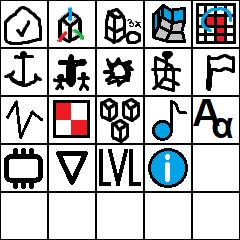
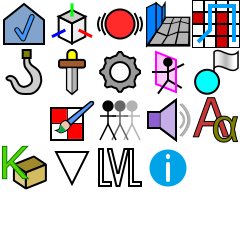
UI last touches, Detector render fix, version bump to v0.3

diff --git a/EditorInterface.cpp b/EditorInterface.cpp
@@ -704,6 +704,24 @@ namespace {
 	void IGStringInput(const char* label, std::string& str) {
 		ImGui::InputText(label, str.data(), str.capacity() + 1, ImGuiInputTextFlags_CallbackResize, IGStdStringInputCallback, &str);
 	}
+
+	void IGLink(const char* text, const wchar_t* url, Window* window = nullptr) {
+		ImVec2 pos = ImGui::GetCursorScreenPos();
+		ImVec2 box = ImGui::CalcTextSize(text);
+		uint32_t color = 0xFFFA870F;
+		if (ImGui::InvisibleButton(text, box)) {
+			ShellExecuteW(window ? (HWND)window->getNativeWindow() : nullptr, NULL, url, NULL, NULL, SW_SHOWNORMAL);
+		}
+		if (ImGui::IsItemHovered()) {
+			color = 0xFFFFC74F;
+			ImGui::SetTooltip("%S", url);
+		}
+
+		float ly = pos.y + box.y;
+		ImDrawList* drawList = ImGui::GetWindowDrawList();
+		drawList->AddText(pos, color, text);
+		drawList->AddLine(ImVec2(pos.x, ly), ImVec2(pos.x + box.x, ly), color);
+	};
 }
 
 // Manages the Event names JSON
@@ -1248,6 +1266,21 @@ void EditorInterface::iter()
 	camera.position = newPos;
 	camera.orientation = newOri;
 
+	// Menu bar
+
+	static bool tbIconsLoaded = false;
+	static texture_t tbTexture = nullptr;
+	static texture_t helpTexture = nullptr;
+	if (!tbIconsLoaded) {
+		auto [ptr, siz] = GetResourceContent("ToolbarIcons.png");
+		RwImage img = RwImage::loadFromMemory(ptr, siz);
+		tbTexture = gfx->createTexture(img);
+		std::tie(ptr, siz) = GetResourceContent("HelpMarker.png");
+		img = RwImage::loadFromMemory(ptr, siz);
+		helpTexture = gfx->createTexture(img);
+		tbIconsLoaded = true;
+	}
+
 	ImGui::BeginMainMenuBar();
 /*	if (ImGui::BeginMenu("Window")) {
 		ImGui::MenuItem("Main", nullptr, &wndShowMain);
@@ -1300,18 +1333,15 @@ void EditorInterface::iter()
 #else
 	ImGui::Text("XXL Editor Development version, by AdrienTD, FPS: %i", lastFps);
 #endif
+	const char* needhelp = "Need help?";
+	ImGui::SameLine(ImGui::GetWindowContentRegionMax().x - 13 - ImGui::CalcTextSize(needhelp).x - ImGui::GetStyle().ItemSpacing.x);
+	ImGui::SetCursorPosY(ImGui::GetCursorPosY() + ImGui::GetStyle().ItemInnerSpacing.y);
+	ImGui::Image(helpTexture, ImVec2(13, 13));
+	ImGui::SetCursorPosY(ImGui::GetCursorPosY() + ImGui::GetStyle().ItemInnerSpacing.y);
+	IGLink(needhelp, L"https://github.com/AdrienTD/XXL-Editor/wiki", g_window);
 	ImGui::EndMainMenuBar();
 
 	// Toolbar
-
-	static bool tbIconsLoaded = false;
-	static texture_t tbTexture = nullptr;
-	if (!tbIconsLoaded) {
-		auto [ptr, siz] = GetResourceContent("ToolbarIcons.png");
-		RwImage img = RwImage::loadFromMemory(ptr, siz);
-		tbTexture = gfx->createTexture(img);
-		tbIconsLoaded = true;
-	}
 
 	static int windowOpenCounter = -1;
 
@@ -1384,11 +1414,11 @@ void EditorInterface::iter()
 		ImGui::PopStyleVar(1);
 		ImGui::PopStyleColor(1);
 		toolbarGroupStart("General");
-		toolbarButton("Main", &wndShowMain, 0, "Select level, manage camera and view");
-		toolbarButton("Scene graph", &wndShowSceneGraph, 1, "View Scene Graph and manipulate Scene Nodes");
-		toolbarButton("Beacons", &wndShowBeacons, 2, "Manage beacons\nUsed for bonuses, crates, respawn points, merchant, ...");
-		toolbarButton("Grounds", &wndShowGrounds, 3, "Manage the ground geometry for the collision\n");
-		toolbarButton("Pathfinding", &wndShowPathfinding, 4, "Manipulate the pathfinding nodes and cells.");
+		toolbarButton("Main", &wndShowMain, 0, "Load and save level, manage the camera and view");
+		toolbarButton("Scene graph", &wndShowSceneGraph, 1, "View the Scene Graph and manipulate the Scene Nodes\n - Add new scene nodes\n - Import/export of rendered geometry");
+		toolbarButton("Beacons", &wndShowBeacons, 2, "Manage beacons\nBeacons are 3D points used to position objects such as:\nbonuses, crates, respawn points, merchant, ...");
+		toolbarButton("Grounds", &wndShowGrounds, 3, "Manage the Grounds in the sectors\nGrounds are 3D collision models that indicate where entities\nsuch as heroes and enemies can stand and walk on.\nThey also include walls that prevent heroes to pass through.");
+		toolbarButton("Pathfinding", &wndShowPathfinding, 4, "Manipulate the pathfinding grids and cells.\nPathfinding is used to guide AI-controlled heroes and enemies through the world\nwhile preventing them to access undesired areas such as walls\nusing some form of A* algorithm.");
 		if (kenv.version <= kenv.KVERSION_XXL1)
 			toolbarButton("Level properties", &wndShowLevel, 17, "Edit the properties of the current level, such as:\n - Set Asterix spawning position\n - Add new sector\n - Sky color\n - ...");
 		toolbarGroupEnd();
@@ -1396,34 +1426,34 @@ void EditorInterface::iter()
 		toolbarGroupStart("Scripting");
 		if (kenv.version <= kenv.KVERSION_XXL1)
 			toolbarButton("Hooks", &wndShowHooks, 5, "Manipulate the hooks\nHooks are attached to Scene Nodes and handle their behaviours\n(similar to adding a Component to a GameObject/Actor in Unity/Unreal)");
-		if (kenv.hasClass<CKGrpSquad>() || kenv.hasClass<CKGrpSquadX2>())
-			toolbarButton("Squads", &wndShowSquads, 6, "Manipulate the squads, the enemies\nSquads are groups of enemies, representated by giant swords");
+		if (kenv.hasClass<CKGrpSquadEnemy>() || kenv.hasClass<CKGrpSquadX2>())
+			toolbarButton("Squads", &wndShowSquads, 6, "Manipulate the squads and its enemies.\nSquads are groups of enemies, represented by giant swords.");
 		//toolbarSeparator();
 		if (kenv.version <= kenv.KVERSION_XXL1)
-			toolbarButton("Events", &wndShowEvents, 7, "Manipulate the scripting events");
+			toolbarButton("Events", &wndShowEvents, 7, "Manipulate the scripting events.");
 		else
-			toolbarButton("Triggers", &wndShowTriggers, 7, "Manipulate the scripting triggers");
-		toolbarButton("Detectors", &wndShowDetectors, 8, "Manipulate the detectors\nwhich are shapes that trigger events when entered.");
+			toolbarButton("Triggers", &wndShowTriggers, 7, "Manipulate the scripting triggers.");
+		toolbarButton("Detectors", &wndShowDetectors, 8, "Manipulate the detectors.\nDetectors are shapes that trigger events when entered.");
 		if (kenv.version <= kenv.KVERSION_XXL1)
-			toolbarButton("Markers", &wndShowMarkers, 9, "Manipulate the markers\nwhich are points in the level that can be used in scripting.");
-		toolbarButton("Lines", &wndShowLines, 10, "Manipulate lines");
+			toolbarButton("Markers", &wndShowMarkers, 9, "Manipulate the markers.\nMarkers are points in the level that can be used in scripting.");
+		toolbarButton("Lines", &wndShowLines, 10, "Manipulate lines used in scripting and mechanisms.");
 		toolbarGroupEnd();
 		//toolbarSeparator();
 		//toolbarButton("Cinematic", &wndShowCinematic, "Manipulate the cutscenes");
 		//toolbarButton("Collision", &wndShowCollision, "Show the collisions registered between bounding shape nodes\n(for debugging purposes)");
 		toolbarSeparator();
 		toolbarGroupStart("Assets");
-		toolbarButton("Textures", &wndShowTextures, 11, "Manage the textures used by the models in this level");
-		toolbarButton("Clones", &wndShowClones, 12, "Show the geometries that are clones,\nreused by multiple nodes (bonuses, enemies, etc.)");
+		toolbarButton("Textures", &wndShowTextures, 11, "Manage the textures used by the models as well as the interface\nin this level and its sectors.");
+		toolbarButton("Clones", &wndShowClones, 12, "Show the geometries that are clones,\nreused by multiple clone nodes (bonuses, enemies, etc.).");
 		if (kenv.hasClass<CKSoundDictionary>())
-			toolbarButton("Sounds", &wndShowSounds, 13, "Manage the sounds");
+			toolbarButton("Sounds", &wndShowSounds, 13, "Manage the sounds used in this level and its sectors.");
 		toolbarGroupEnd();
 		toolbarSeparator();
 		toolbarGroupStart("Misc");
-		toolbarButton("Localization", &wndShowLocale, 14, "Add/Modify language text and fonts");
-		toolbarButton("Objects", &wndShowObjects, 15, "Show a list of all objects in the level and sectors");
+		toolbarButton("Localization", &wndShowLocale, 14, "Add/Modify language text and fonts in the game.");
+		toolbarButton("Objects", &wndShowObjects, 15, "Show a list of all objects (Kal class instances) in the level and sectors.");
 		bool openMisc = false;
-		toolbarButton("Misc", &openMisc, 16, "Access to debugging and incomplete features that are not recommended to be used");
+		toolbarButton("Misc", &openMisc, 16, "Access to debugging and incomplete features that are not recommended to be used.");
 		toolbarButton("Information", &wndShowAbout, 18, "Display information about the editor\nand links to documentation and updates.");
 		if (openMisc)
 			ImGui::OpenPopup("MiscWindowsMenu");
@@ -1750,8 +1780,9 @@ void EditorInterface::render()
 
 	CKGroup *grpEnemy = kenv.hasClass<CKGrpEnemy>() ? kenv.levelObjects.getFirst<CKGrpEnemy>() : nullptr;
 
-	if (grpEnemy) {
+	if (grpEnemy && (showSquadBoxes || showMsgActionBoxes)) {
 		gfx->setTransformMatrix(camera.sceneMatrix);
+		gfx->unbindTexture(0);
 		//for (CKObject *osquad : kenv.levelObjects.getClassType<CKGrpSquadEnemy>().objects) {
 		for (CKGroup* osquad = grpEnemy->childGroup.get(); osquad; osquad = osquad->nextGroup.get()) {
 			if (!osquad->isSubclassOf<CKGrpSquadEnemy>()) continue;
@@ -1905,6 +1936,7 @@ void EditorInterface::render()
 
 	if (showMarkers && kenv.hasClass<CKSrvMarker>()) {
 		if (CKSrvMarker *srvMarker = kenv.levelObjects.getFirst<CKSrvMarker>()) {
+			gfx->unbindTexture(0);
 			gfx->setBlendColor(0xFFFFFF00);
 			for (auto &list : srvMarker->lists) {
 				for (auto &marker : list) {
@@ -1920,6 +1952,7 @@ void EditorInterface::render()
 			if (CKSrvDetector* srvDetector = kenv.levelObjects.getFirst<CKSrvDetector>()) {
 				ProGeometry* progeoSphere = progeocache.getPro(sphereModel->geoList.geometries[0], &protexdict);
 				gfx->setTransformMatrix(camera.sceneMatrix);
+				gfx->unbindTexture(0);
 				gfx->setBlendColor(0xFF00FF00); // green
 				for (auto& aabb : srvDetector->aaBoundingBoxes)
 					drawBox(aabb.highCorner, aabb.lowCorner);
@@ -1961,6 +1994,7 @@ void EditorInterface::render()
 		}
 		if (kenv.hasClass<CKSectorDetector>()) {
 			gfx->setTransformMatrix(camera.sceneMatrix);
+			gfx->unbindTexture(0);
 			int strid = -2;
 			for (CKObject* osector : kenv.levelObjects.getClassType<CKSectorDetector>().objects) {
 				++strid;
@@ -2005,6 +2039,7 @@ void EditorInterface::render()
 	}
 
 	if (showLights && kenv.hasClass<CKGrpLight>()) {
+		gfx->unbindTexture(0);
 		gfx->setBlendColor(0xFF00FFFF); // yellow
 		if (CKGrpLight *grpLight = kenv.levelObjects.getFirst<CKGrpLight>()) {
 			auto &points = grpLight->node->cast<CNode>()->geometry->cast<CKParticleGeometry>()->pgPoints;
@@ -6056,41 +6091,21 @@ void EditorInterface::IGAbout()
 		loaded = true;
 	}
 
-	auto IGLink = [this](const char* text, const wchar_t* url) {
-		ImVec2 pos = ImGui::GetCursorScreenPos();
-		ImVec2 box = ImGui::CalcTextSize(text);
-		uint32_t color = 0xFFFA870F;
-		if (ImGui::InvisibleButton(text, box)) {
-			ShellExecuteW((HWND)g_window->getNativeWindow(), NULL, url, NULL, NULL, SW_SHOWNORMAL);
-		}
-		if (ImGui::IsItemHovered()) {
-			color = 0xFFFFC74F;
-			ImGui::SetTooltip("%S", url);
-		}
-
-		float ly = pos.y + box.y;
-		ImDrawList* drawList = ImGui::GetWindowDrawList();
-		drawList->AddText(pos, color, text);
-		drawList->AddLine(ImVec2(pos.x, ly), ImVec2(pos.x + box.x, ly), color);
-	};
-
 	ImGui::Image(logo, ImVec2(400.0f, 400.0f * (float)logoHeight / (float)logoWidth));
 #ifdef XEC_APPVEYOR
 	static const char* version = "Version " XEC_APPVEYOR;
 #else
 	static const char* version = "Development version";
 #endif
-	ImGui::Text("XXL Editor\n%s\nbuilt on " __DATE__ "\nby AdrienTD", version);
-	ImGui::Text("Thanks to S.P.Q.R");
-	ImGui::Spacing();
-	ImGui::Separator();
-	ImGui::Spacing();
-	ImGui::Text("Wiki page, links, etc.");
-	IGLink("GitHub repo", L"https://github.com/AdrienTD/XXL-Editor");
-	ImGui::TextUnformatted("for source code and stable releases");
-	IGLink("Wiki", L"https://github.com/AdrienTD/XXL-Editor/wiki");
+	ImGui::Text("XXL Editor\n%s\nbuilt on " __DATE__, version);
+	ImGui::Spacing(); ImGui::Separator(); ImGui::Spacing();
+	ImGui::Text("Developed by AdrienTD\nThanks to S.P.Q.R");
+	ImGui::Spacing(); ImGui::Separator(); ImGui::Spacing();
+	IGLink("Wiki", L"https://github.com/AdrienTD/XXL-Editor/wiki", g_window);
 	ImGui::TextUnformatted("for documentation, tutorials, and links to Discord servers");
-	IGLink("AppVeyor", L"https://ci.appveyor.com/project/AdrienTD/xxl-editor");
+	IGLink("GitHub repo", L"https://github.com/AdrienTD/XXL-Editor", g_window);
+	ImGui::TextUnformatted("for source code and stable releases");
+	IGLink("AppVeyor", L"https://ci.appveyor.com/project/AdrienTD/xxl-editor", g_window);
 	ImGui::TextUnformatted("for the latest development build");
 }
 
